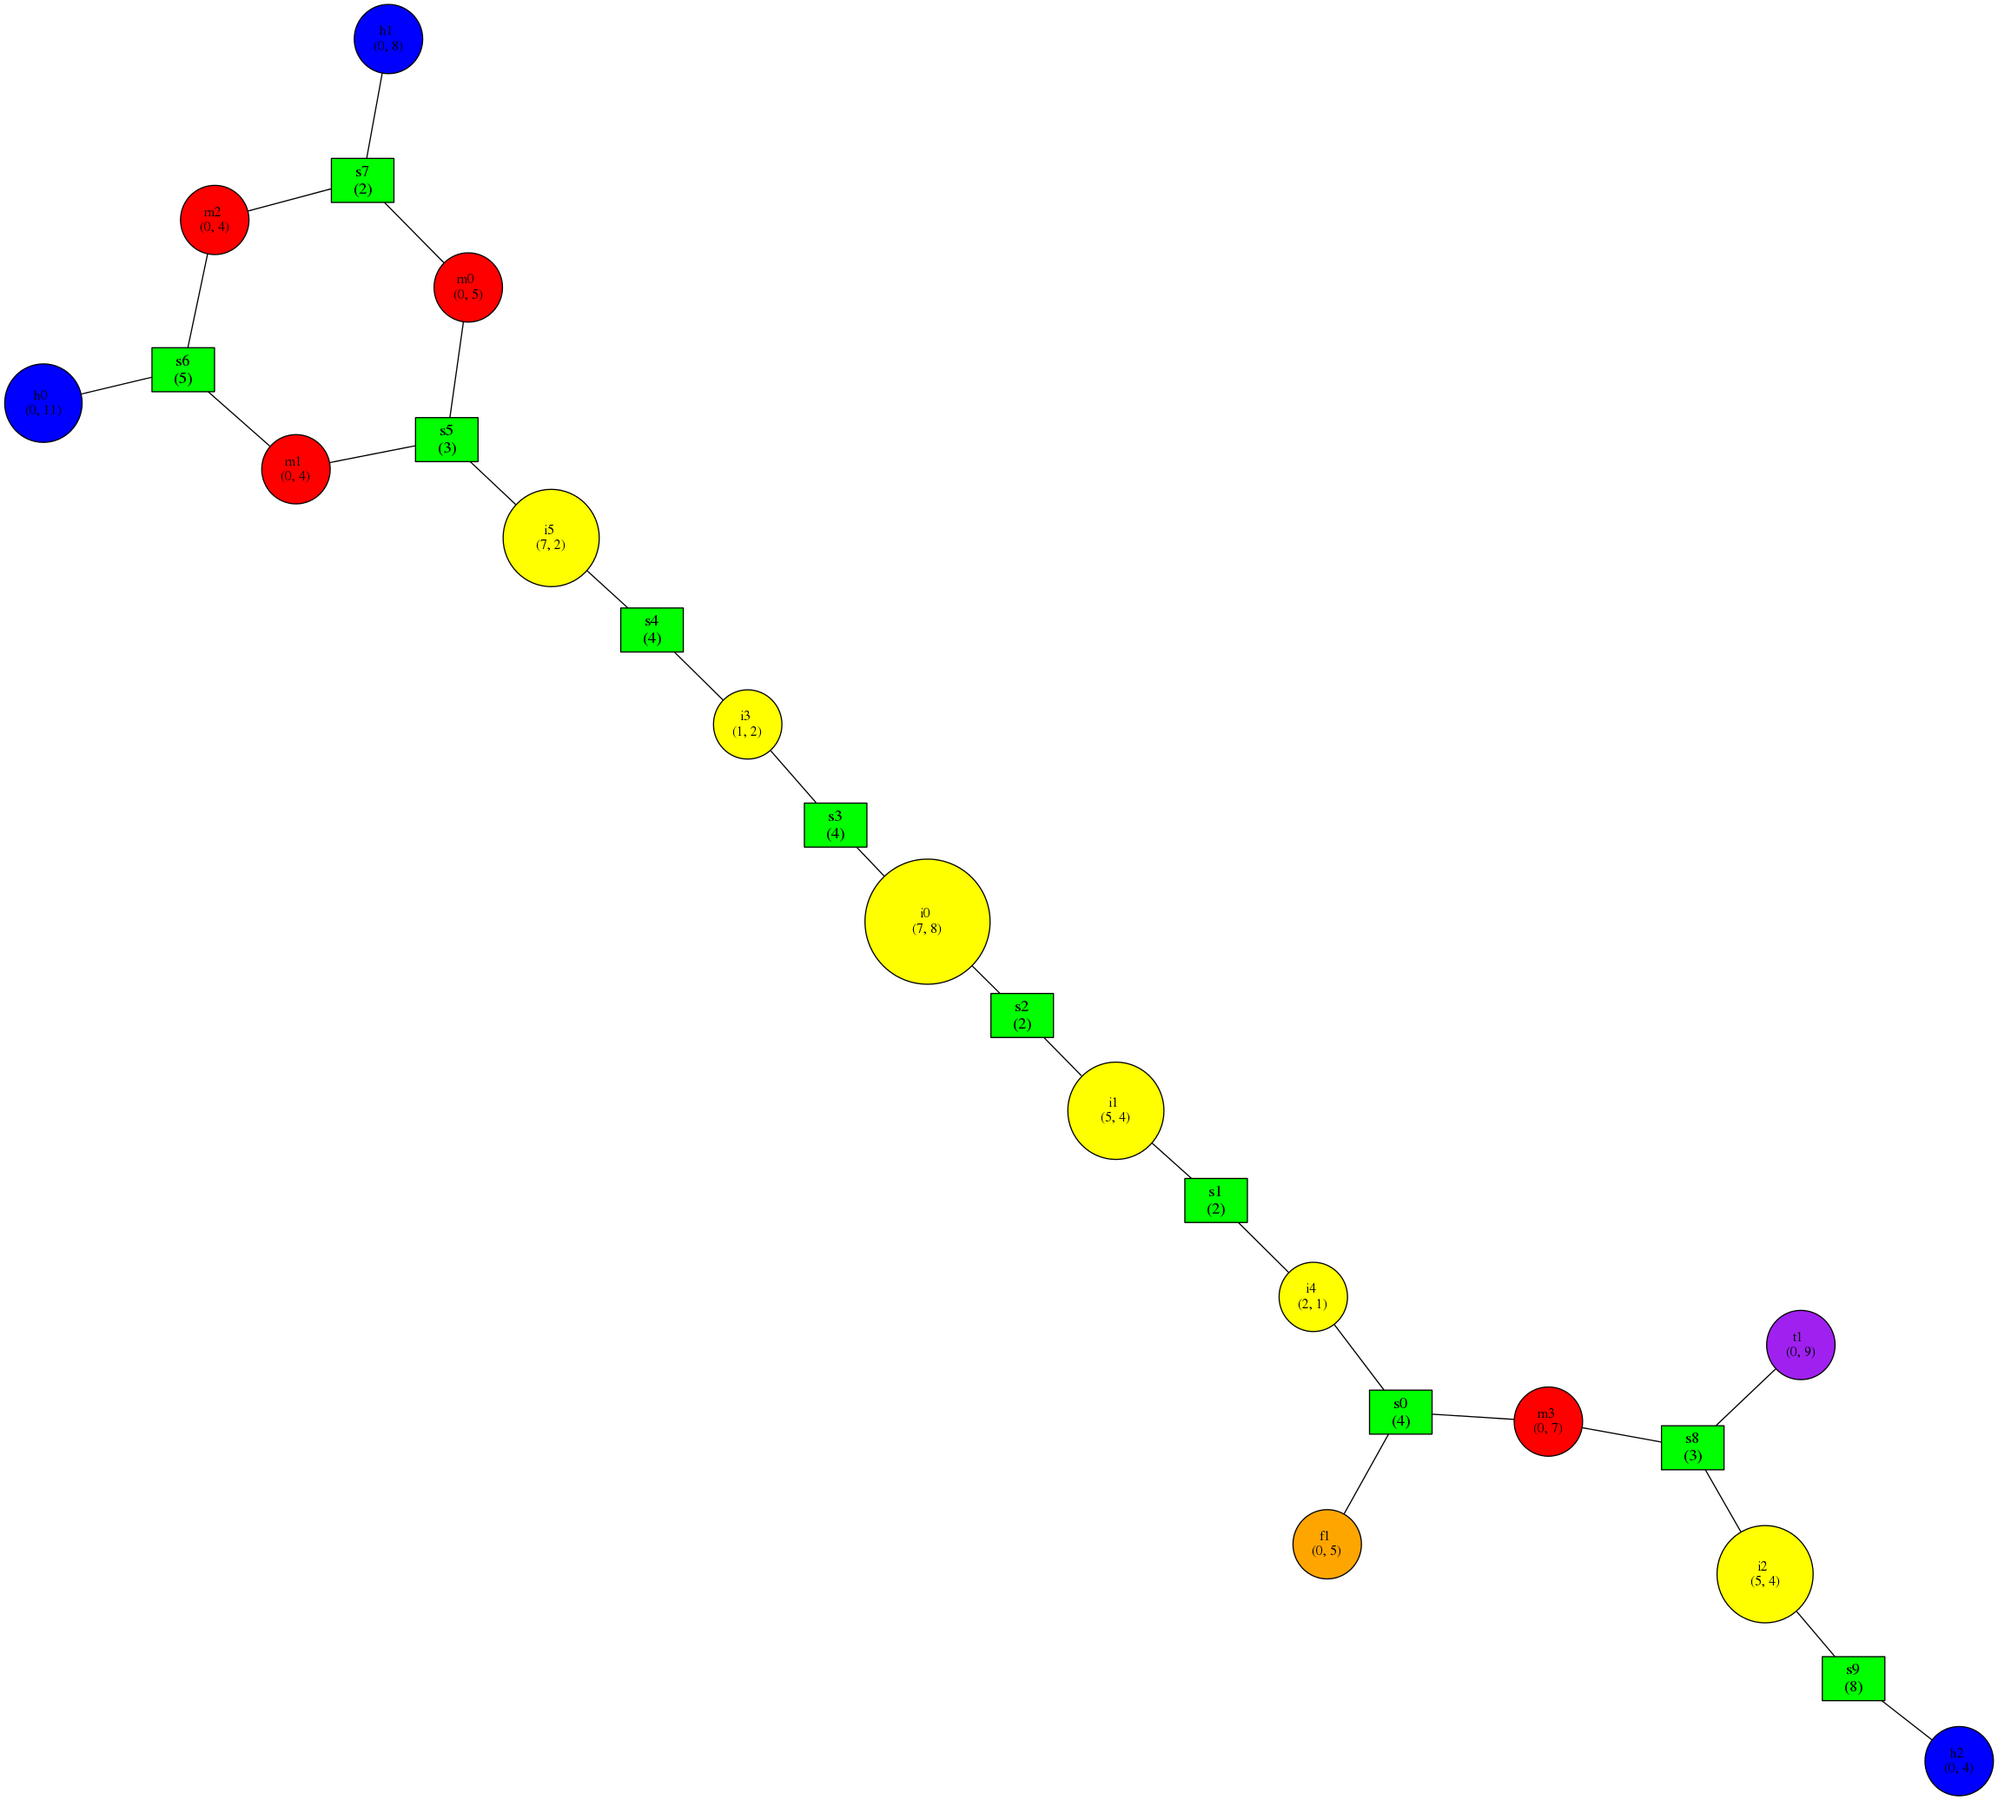
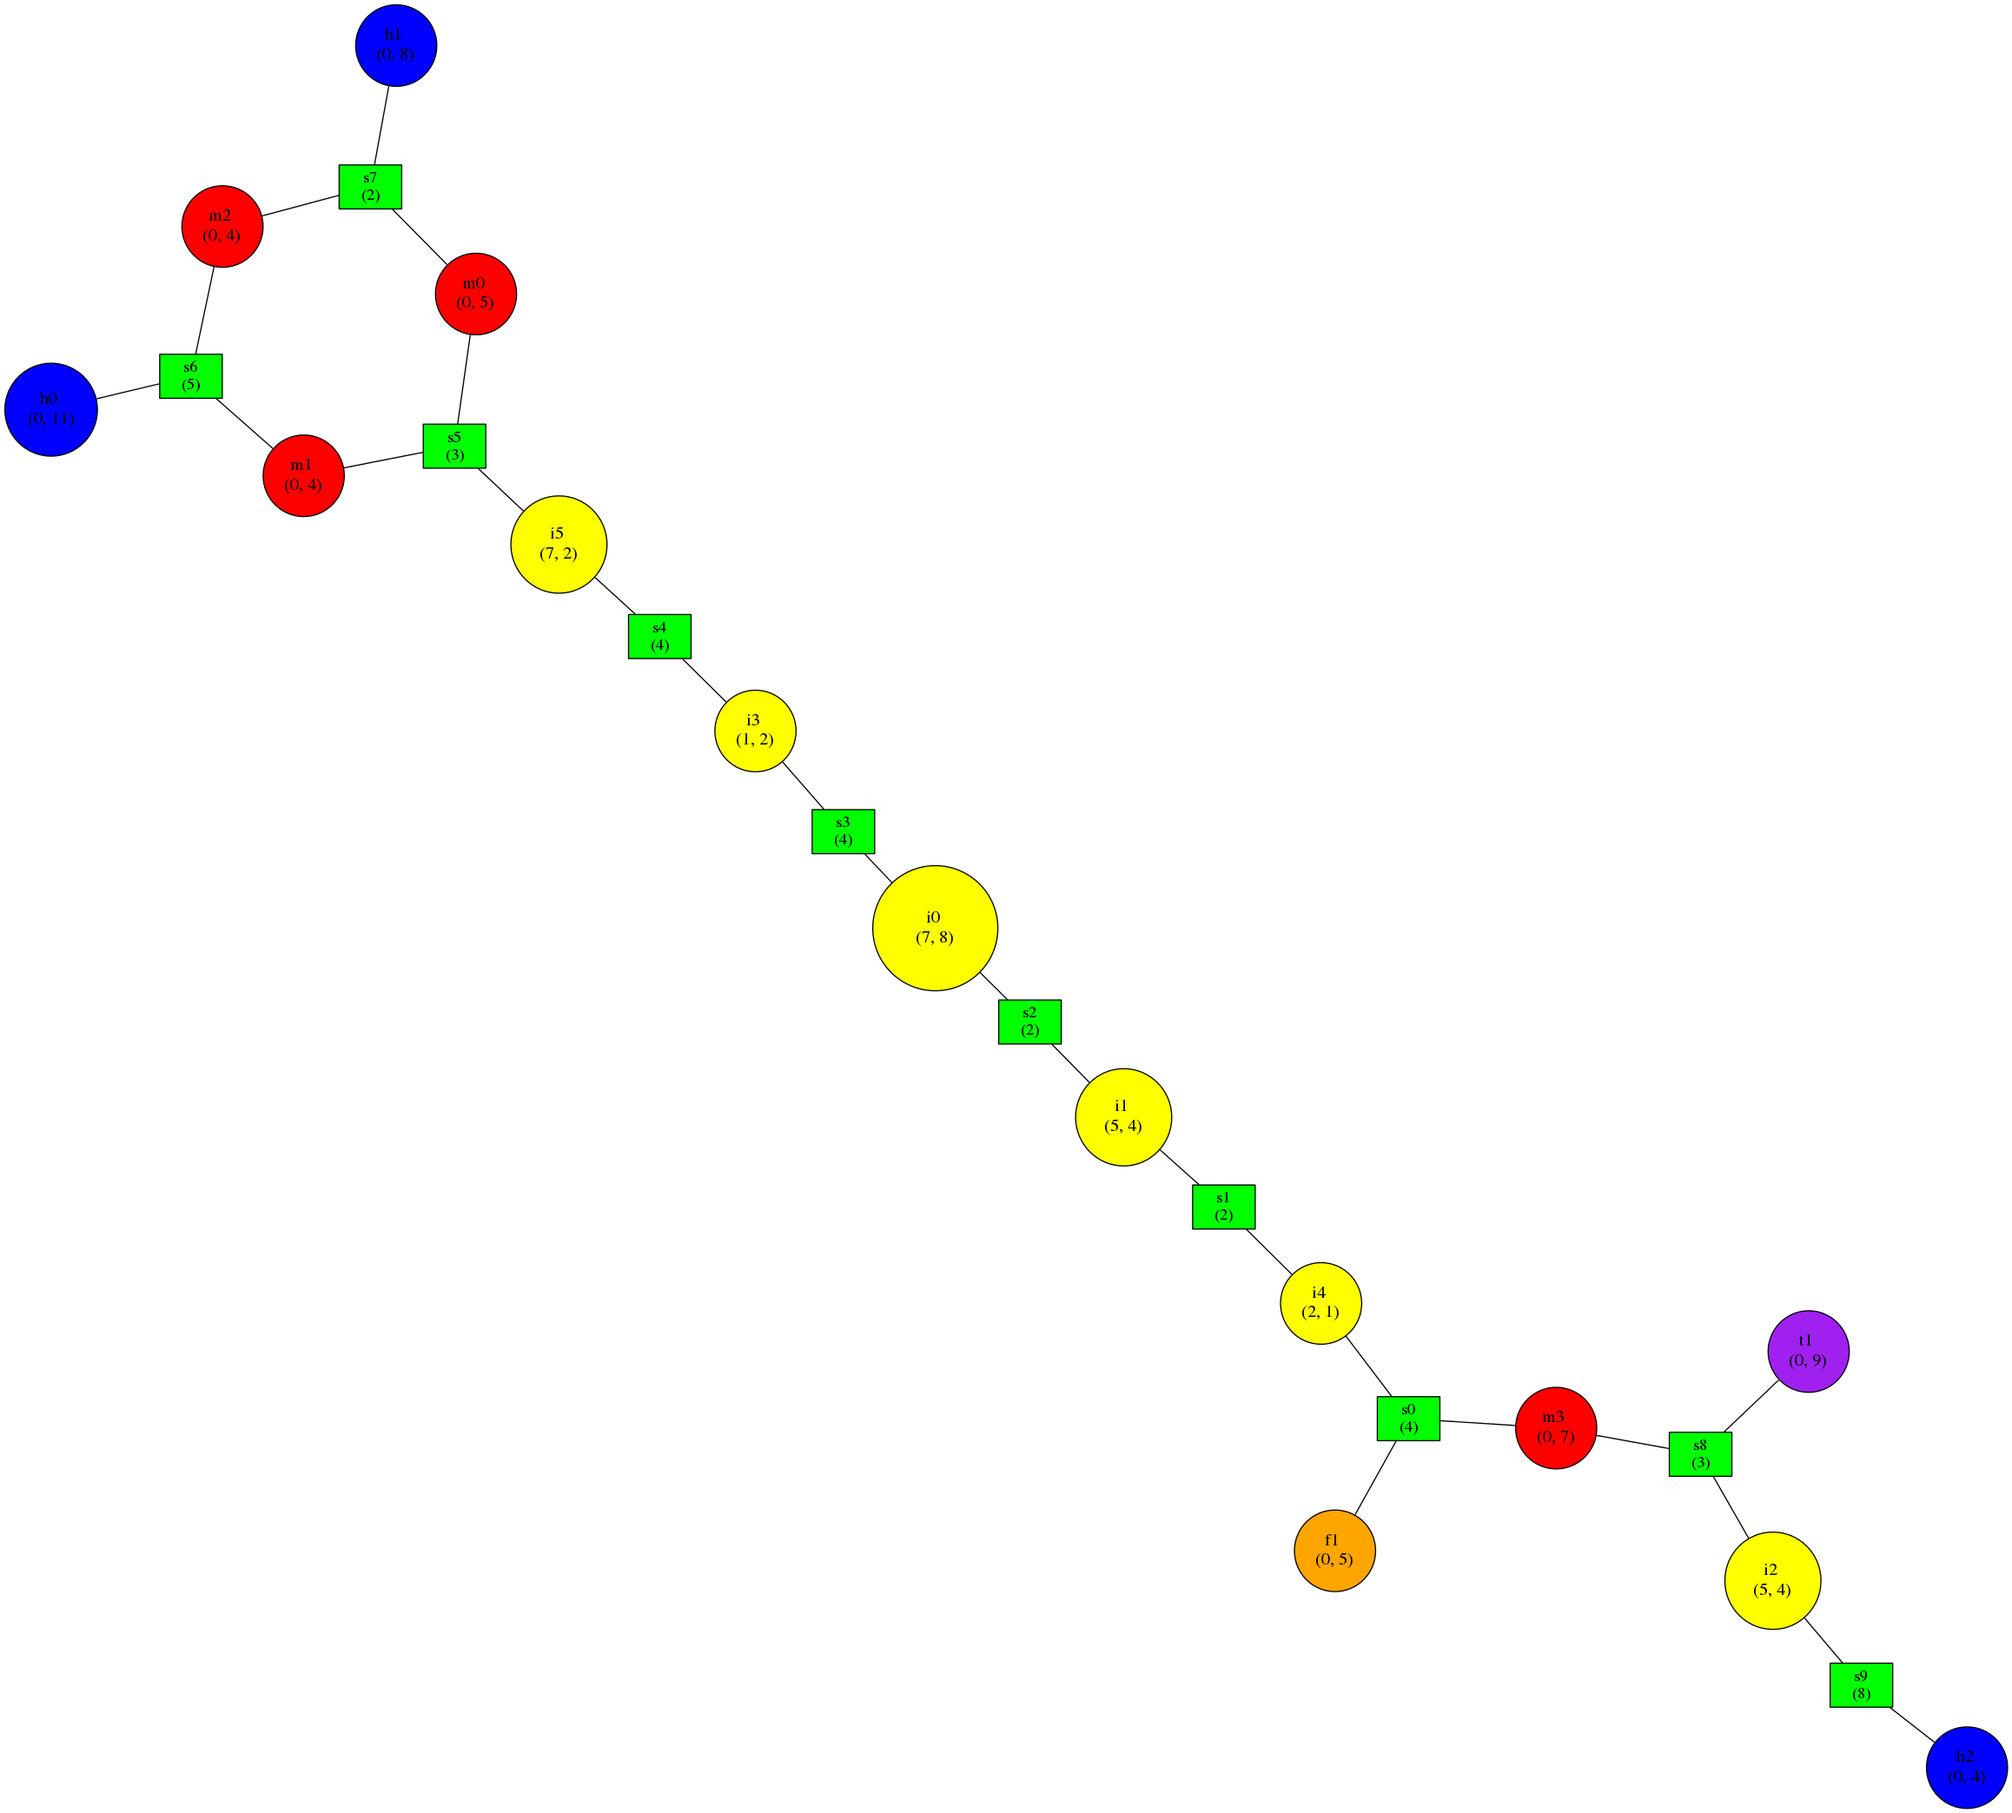
Load a the graph from a raw text file.

diff --git a/examples/graph_to_neato.py b/examples/graph_to_neato.py
@@ -11,6 +11,7 @@ def print_neato(bg):
 
     node_lines = ''
     connection_lines = ''
+    fontsize=20
 
     print "graph G {"
     print "\tgraph [overlap=scale];"
@@ -19,18 +20,18 @@ def print_neato(bg):
     for key2 in bg.defines.keys():
         # Create the nodes with a different color for each type of element
         if key2[0] == 's':
-            node_lines += '\t{node [style=filled,fillcolor=green,label=\"%s\\n(%d)\"] %s};\n' % (key2, bg.stem_length(key2), key2)
+            node_lines += '\t{node [style=filled,fillcolor="#B3E2CD",fontsize=%d,label=\"%s\\n(%d)\"] %s};\n' % (fontsize,key2, bg.stem_length(key2), key2)
             continue
         elif key2[0] == 'i':
-            node_lines += '\t{node [style=filled,shape=circle,fillcolor=yellow,fontsize=12'
+            node_lines += '\t{node [style=filled,shape=circle,fillcolor="#FFF2AE",fontsize=%d' % (fontsize)
         elif key2[0] == 'm':
-            node_lines += '\t{node [style=filled,shape=circle,fillcolor=red,fontsize=12'
+            node_lines += '\t{node [style=filled,shape=circle,fillcolor="#F4CAE4",fontsize=%d' % (fontsize)
         elif key2[0] == 'f':
-            node_lines += '\t{node [style=filled,shape=circle,fillcolor=orange,fontsize=12'
+            node_lines += '\t{node [style=filled,shape=circle,fillcolor="#FDCDAC",fontsize=%d' % (fontsize)
         elif key2[0] == 't':
-            node_lines += '\t{node [style=filled,shape=circle,fillcolor=purple,fontsize=12'
+            node_lines += '\t{node [style=filled,shape=circle,fillcolor="#E6F5C9",fontsize=%d' % (fontsize)
         else:
-            node_lines += '\t{node [style=filled,shape=circle,fillcolor=blue,fontsize=12'
+            node_lines += '\t{node [style=filled,shape=circle,fillcolor="#CBD5E8",fontsize=%d' % (fontsize)
 
         node_lines += ',label=\"%s \\n' % (key2)
 

diff --git a/corgy/graph/bulge_graph.py b/corgy/graph/bulge_graph.py
@@ -824,6 +824,29 @@ class BulgeGraph:
         self.collapse()
         self.relabel_nodes()
 
+    def from_bg_string(self, bg_str):
+        '''
+        Populate this BulgeGraph from the string created by the method
+        to_bg_string.
+
+        @param bg_str: The string representation of this BugleGraph.
+        '''
+        lines = bg_str.split('\n')
+        for line in lines:
+            line = line.strip()
+            parts = line.split()
+            if len(parts) == 0:
+                #blank line
+                continue
+            if parts[0] == 'length':
+                self.length = int(parts[1])
+            elif parts[0] == 'define':
+                self.defines[parts[1]] = map(int, parts[2:])
+            elif parts[0] == 'connect':
+                for p in parts[2:]:
+                    self.edges[parts[1]].add(p)
+                    self.edges[p].add(parts[1])
+
     def stem_iterator(self):
         '''
         Iterate over all of the stem elements.
@@ -873,3 +896,19 @@ class BulgeGraph:
         :param s: The name of the stem.
         '''
         return self.defines[s][1] - self.defines[s][0] + 1
+
+    def adjacent_stem_pairs_iterator(self):
+        '''
+        Iterate over all pairs of stems which are separated by some element.
+
+        This will always yield triples of the form (s1, e1, s2) where s1 and
+        s2 are the stem identifiers and e1 denotes the element that separates
+        them.
+        '''
+        for d in self.defines.keys():
+            if len(self.edges[d]) == 2:
+                edges = list(self.edges[d])
+
+                if edges[0][0] == 's' and edges[1][0] == 's':
+                    yield (edges[0], d, edges[1])
+
